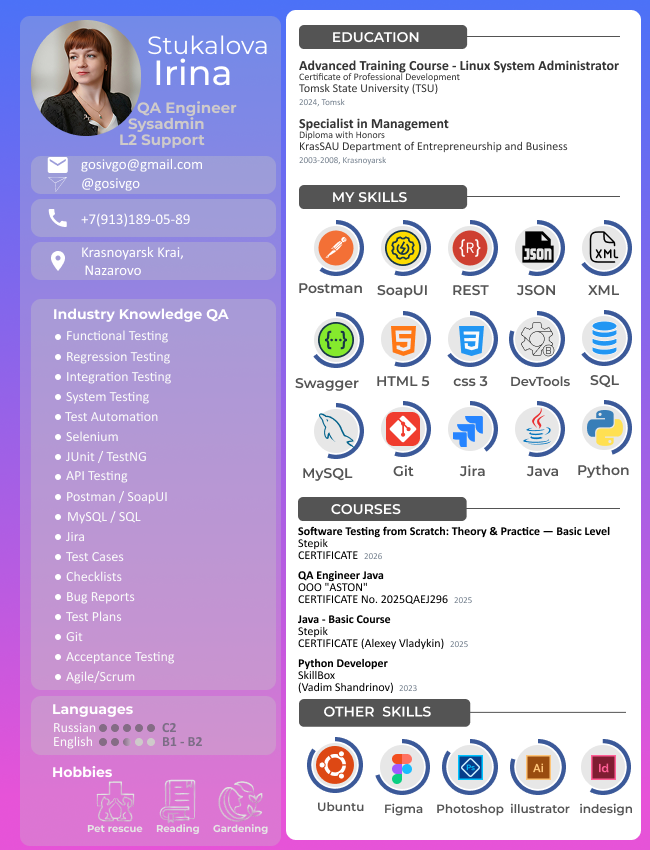
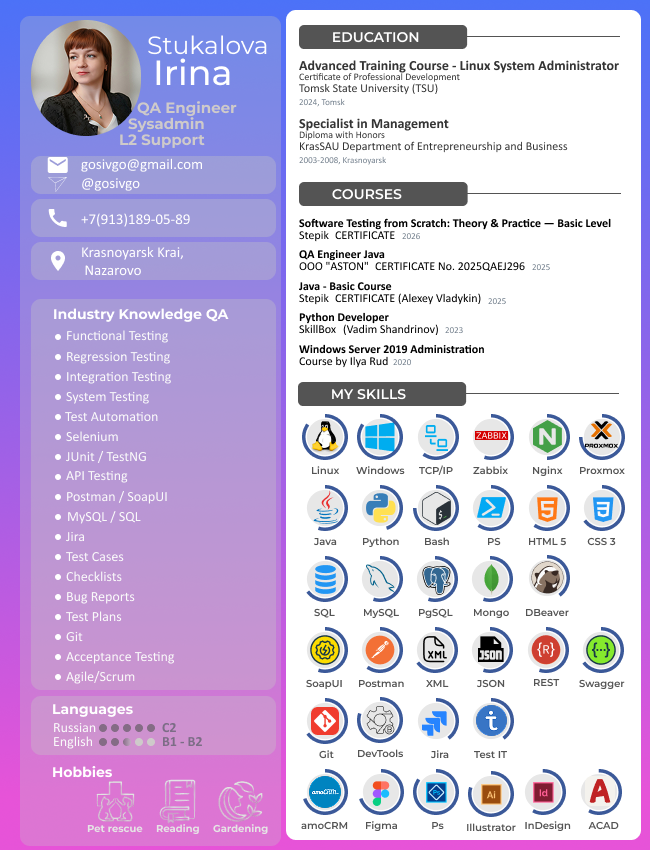
Added skills

Changed region(s): [[0.4615, 0.2141, 0.9846, 0.9788]]

diff --git a/README.md b/README.md
@@ -85,13 +85,19 @@
 
 ---
 
+### 🧩 CRM и сервисы:
+
+<div>
+<img src="https://img.shields.io/badge/amoCRM-✓-2D9CDB?style=flat" title="amoCRM" alt="amoCRM"/>
+</div>
+
+
 ### 📁 Тестовая документация:
 
 <div>
   <img src="https://cdn.jsdelivr.net/gh/devicons/devicon/icons/jira/jira-original.svg" title="jira" alt="jira" width="40" height="40"/>&nbsp;
   <img src="https://docs.testit.software/images/testit_logo_icon_blue.png" title="test-it" alt="test-it" width="40" height="40"/>&nbsp;
   <img src="https://luna1.co/eb0187.png" title="qase" alt="qase" width="40" height="40"/>&nbsp;
-  <img src="https://cdn.jsdelivr.net/gh/devicons/devicon/icons/figma/figma-original.svg" title="figma" alt="figma" width="40" height="40"/>&nbsp;
 </div>
 
 ---
@@ -109,7 +115,11 @@
 ### 💾 Работа с данными:
 
 <div>
+  <img src="https://cdn.jsdelivr.net/gh/devicons/devicon/icons/azuresqldatabase/azuresqldatabase-original.svg" title="SQL" alt="SQL" width="40" height="40"/>&nbsp;
   <img src="https://cdn.jsdelivr.net/gh/devicons/devicon/icons/mysql/mysql-original.svg" title="mysql" alt="mysql" width="40" height="40"/>&nbsp;
+  <img src="https://cdn.jsdelivr.net/gh/devicons/devicon/icons/postgresql/postgresql-original.svg" title="PostgreSQL" alt="PostgreSQL" width="40" height="40"/>&nbsp;
+  <img src="https://cdn.jsdelivr.net/gh/devicons/devicon/icons/mongodb/mongodb-original.svg" title="MongoDB" alt="MongoDB" width="40" height="40"/>&nbsp;
+  <img src="https://cdn.jsdelivr.net/gh/devicons/devicon/icons/dbeaver/dbeaver-original.svg" title="DBeaver" alt="DBeaver" width="40" height="40"/>&nbsp;
 
 🗄 <strong>Data Tables</strong> &nbsp; | &nbsp; 📊 <strong>Сводные таблицы</strong> &nbsp; | &nbsp; 📈 <strong>Дашборды</strong>
 </div>
@@ -139,8 +149,10 @@
 ### 🎨 Проектирование и дизайн:
 
 <div>
+  <img src="https://cdn.jsdelivr.net/gh/devicons/devicon/icons/figma/figma-original.svg" title="figma" alt="figma" width="40" height="40"/>&nbsp;
   <img src="https://cdn.jsdelivr.net/gh/devicons/devicon/icons/photoshop/photoshop-original.svg" title="Photoshop" alt="Photoshop" width="40" height="40"/>&nbsp;
   <img src="https://cdn.jsdelivr.net/gh/devicons/devicon/icons/illustrator/illustrator-plain.svg" title="Illustrator" alt="Illustrator" width="40" height="40"/>&nbsp;
+  <img src="https://img.shields.io/badge/InDesign-✓-FF3366?style=flat" title="Adobe InDesign" alt="InDesign"/>&nbsp;
   <img src="https://cdn.simpleicons.org/autocad/a1253f/FFFFFF" title="AutoCAD" alt="AutoCAD" width="40" height="40"/>&nbsp;
 </div>
 
